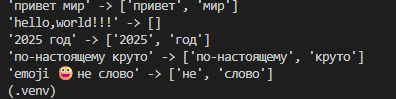
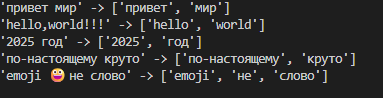
fix reg

diff --git a/src/lib/text.py b/src/lib/text.py
@@ -18,7 +18,10 @@ def normalize(text: str, *, casefold: bool = True, yo2e: bool = True) -> str:
 
 test2 =["привет мир", "hello,world!!!", "2025 год","по-настоящему круто",'emoji 😀 не слово']
 def tokenize(text: str) -> list[str]:
-    return re.findall(r'[а-я0-9-_]+',text)
+    return re.findall(r'[а-яa-z0-9-_]+',text)
+
+for el in test2:
+    print(f'{repr(el)} -> {repr(tokenize(el))}')
 
 test3 = [["a","b","a","c","b","a"],["bb","aa","bb","aa","cc"]]
 def count_freq(tokens: list[str]) -> dict[str, int]:

diff --git a/src/lab02/arrays.py b/src/lab02/arrays.py
@@ -1,4 +1,4 @@
-
+#mnen
 nums = [[3, -1, 5, 5, 0],[42],[-5, -2, -9],[],[1.5, 2, 2.0, -3.1]]
 def min_max(nums):
     if list:
